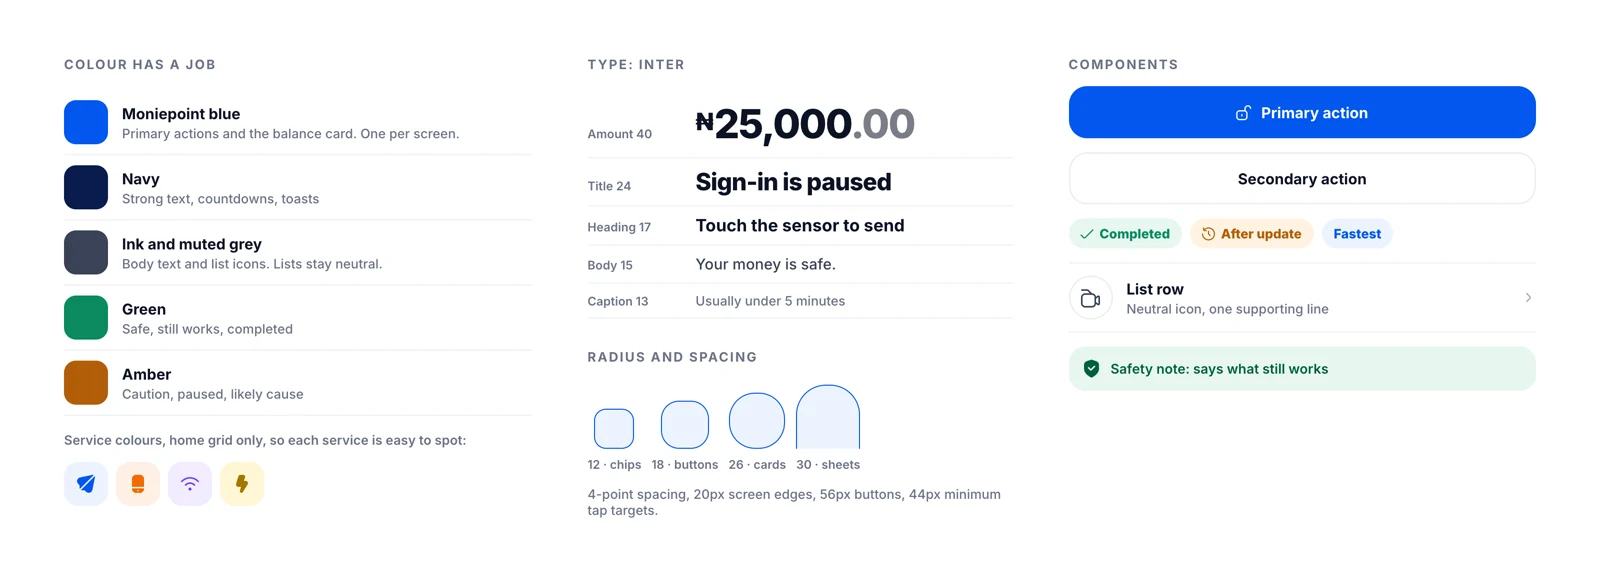
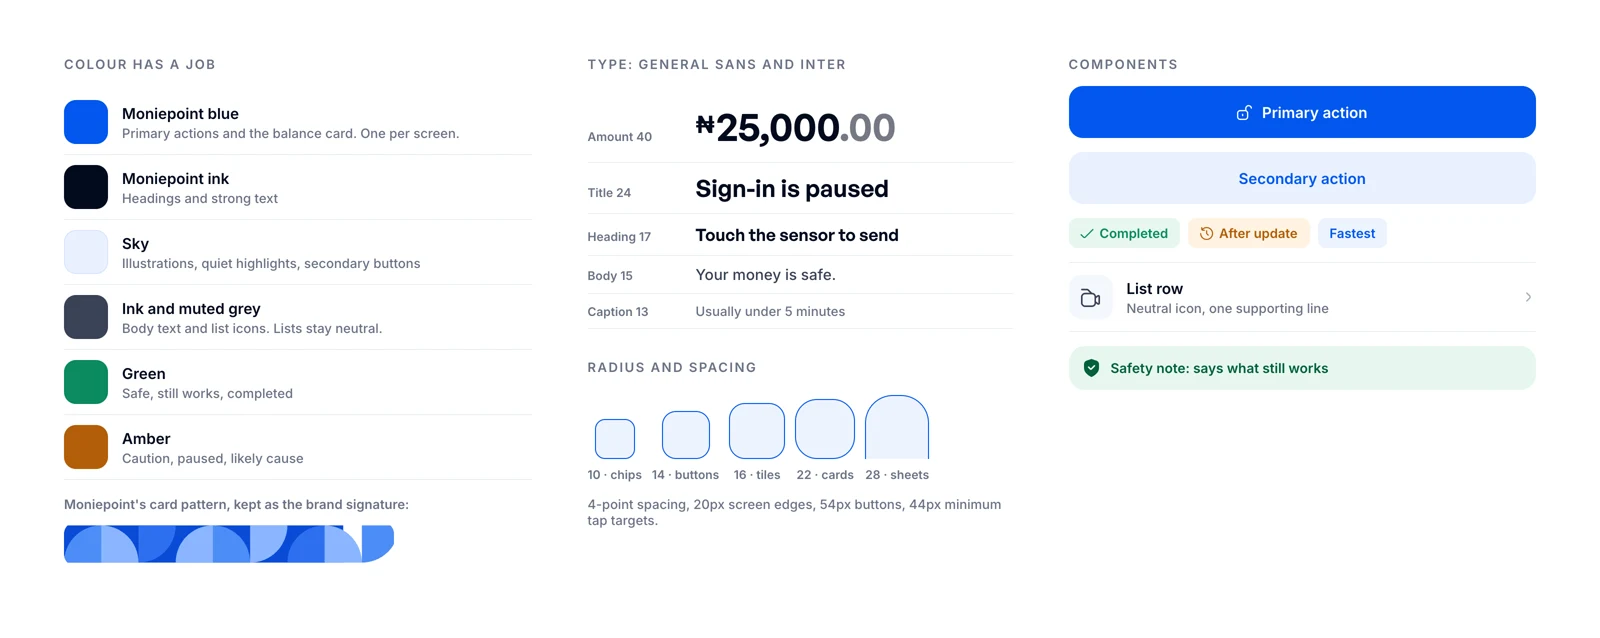
Moniepoint v4: rebuilt in Moniepoint's own design language (card pattern, action tiles, General Sans), on-brand spot illustrations

diff --git a/project-8.html b/project-8.html
@@ -192,8 +192,9 @@
     <section class="cs-section">
       <div class="container">
         <span class="cs-section__label">The system behind the screens</span>
-        <h2 class="cs-section__title">Every colour has a job,<br /><em>so the important things stand out.</em></h2>
-        <p class="cs-body">Before polishing, I set a small system from how Wise, Monzo, Chime and Cash App build theirs. Lists stay neutral, so colour only shows up where it means something: blue for the next action, green for "this still works", amber for "this is paused". Amounts lead with the number, not the currency sign, and decimals step back.</p>
+        <h2 class="cs-section__title">Designed in Moniepoint's language,<br /><em>tightened with the best of fintech.</em></h2>
+        <p class="cs-body">A redesign pitched to a company should look like their next release, not someone else's app. So I started from Moniepoint's own visual language: the patterned blue balance card, white action tiles, the account-tier pill, light-blue shapes with floating cards for illustration, and the General Sans and Inter type pairing from their website.</p>
+        <p class="cs-body">Then I tightened it with how Wise, Monzo, Chime and Cash App build their systems. Lists stay neutral, so colour only shows up where it means something: blue for the next action, green for "this still works", amber for "this is paused". Amounts lead with the number, and decimals step back.</p>
         <figure class="mp-system"><img src="images/mp-system.webp" alt="Design system panel: colour roles, Inter type scale, radius and spacing tokens, and core components" loading="lazy" /></figure>
       </div>
     </section>
